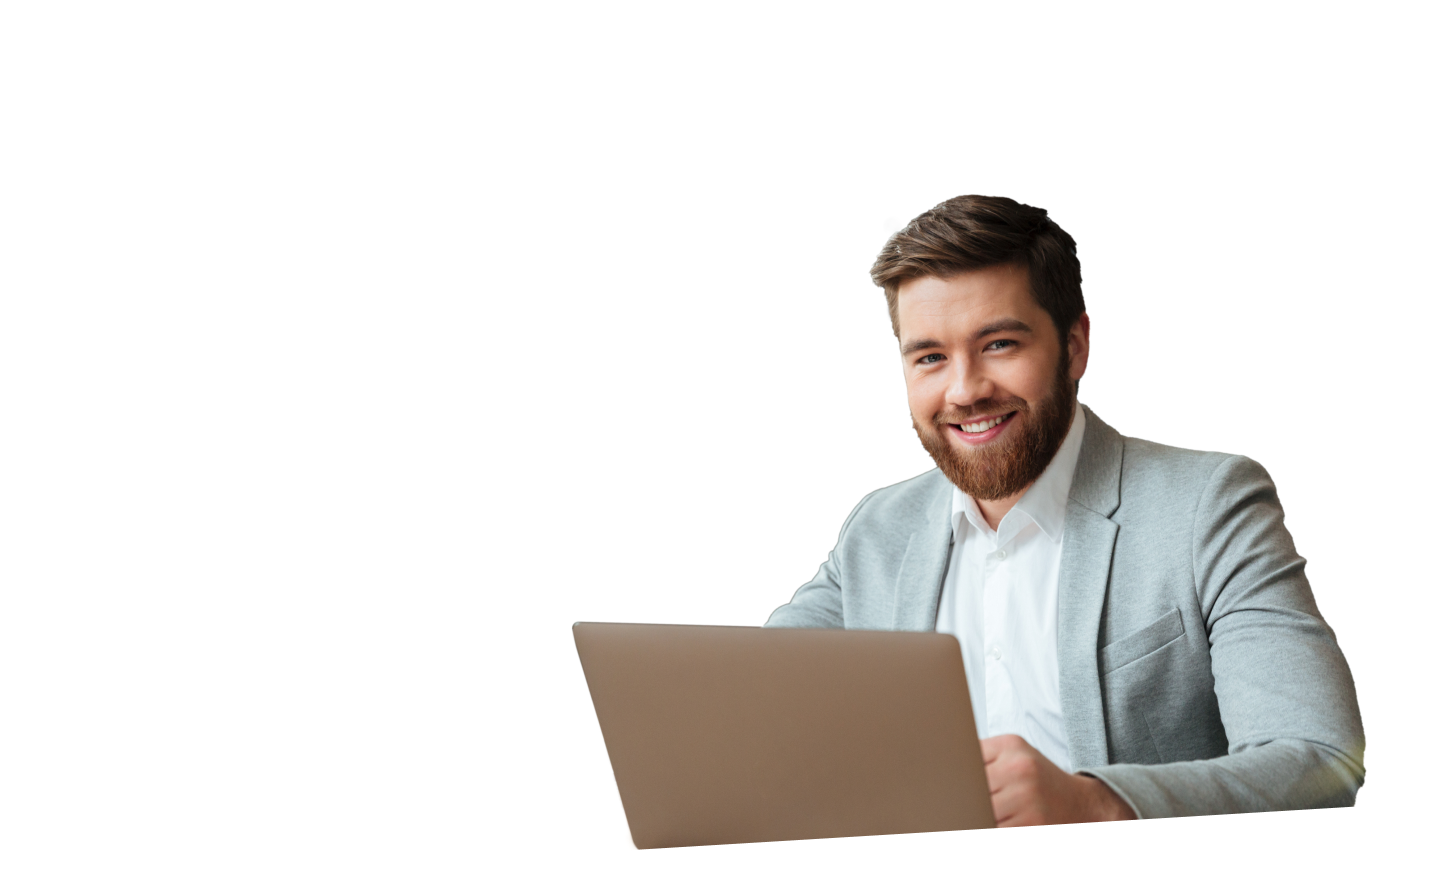
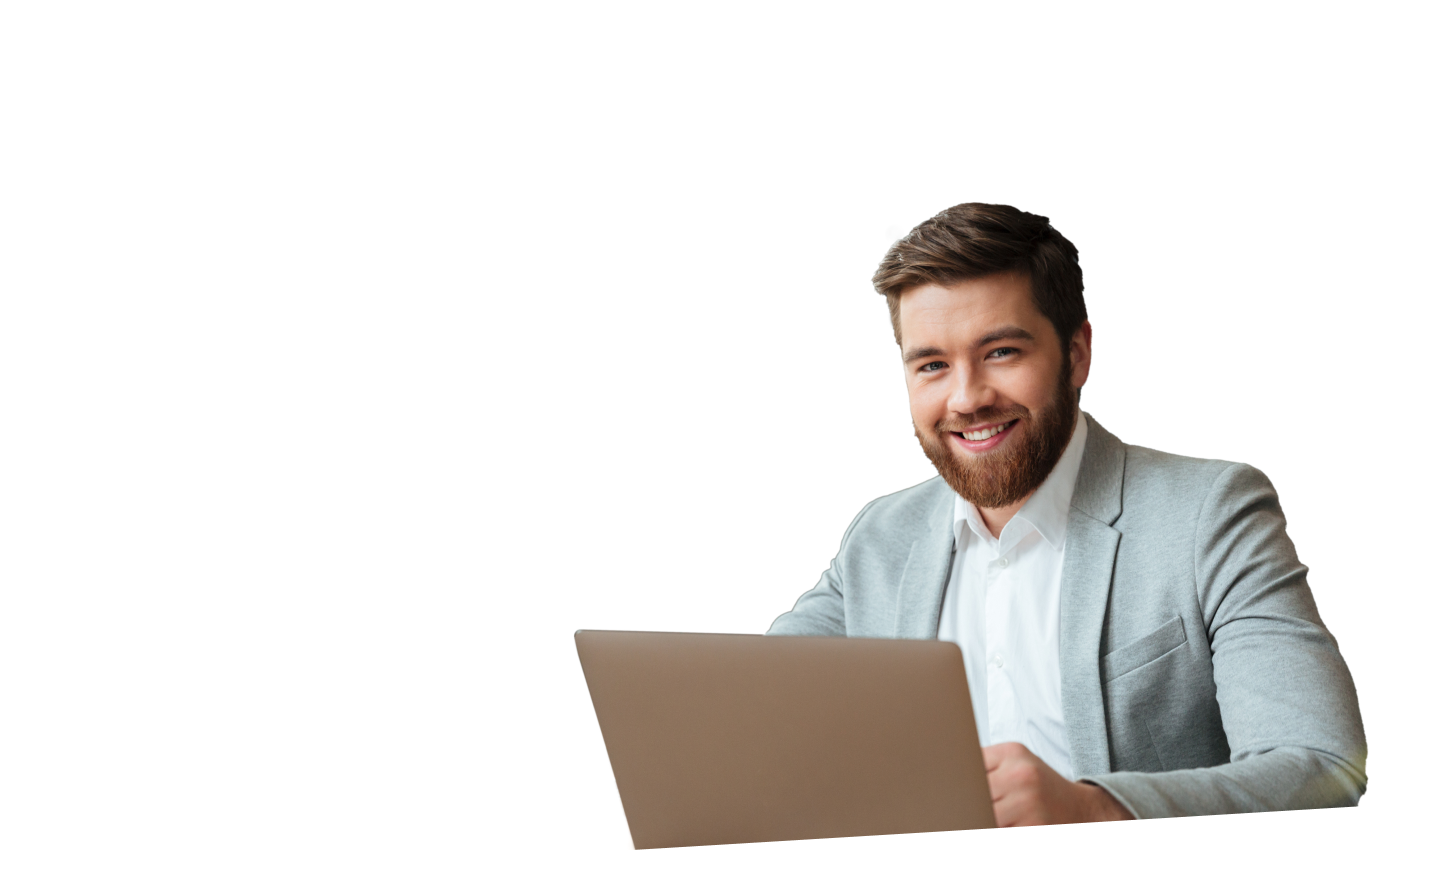
fix(images): best images and positions

Changed region(s): [[0.375, 0.2128, 0.9688, 0.9426]]

diff --git a/src/pages/licenciamento.tsx b/src/pages/licenciamento.tsx
@@ -74,6 +74,7 @@ const Licenciamento: React.FC = () => {
                                 // background={true}
                                 polygon={true}
                                 style={{ marginTop: '70px' }}
+                                collapse="tabletOn"
                             >
                                 <Column
                                     size={1}
@@ -85,6 +86,29 @@ const Licenciamento: React.FC = () => {
                                         changedMediaQueries="tabletOn"
                                         url="/assets/14-licensing/licensing-background.png"
                                         backgroundSize="cover"
+                                    >
+                                        <Title>
+                                            Licenciamento e <br />
+                                            Renovações
+                                        </Title>
+                                    </MainContainer>
+                                </Column>
+                            </Row>
+
+                            <Row
+                                background={true}
+                                polygon={true}
+                                style={{ marginTop: '70px' }}
+                                collapse="tabletOff"
+                            >
+                                <Column
+                                    size={1}
+                                    marginLeft={2}
+                                    marginRight={2}
+                                    maxWidth={1280}
+                                >
+                                    <MainContainer
+                                        changedMediaQueries="tabletOn"
                                     >
                                         <Title>
                                             Licenciamento e <br />

diff --git a/src/pages/vcsp.tsx b/src/pages/vcsp.tsx
@@ -85,6 +85,7 @@ const Suporte: React.FC = () => {
                         <section>
                             <Row
                                 // background={true}
+                                collapse="tabletOn"
                                 polygon={true}
                                 style={{ marginTop: '70px' }}
                             >
@@ -100,6 +101,28 @@ const Suporte: React.FC = () => {
                                         backgroundSize="cover"
                                     >
                                         <Title style={{ fontSize: '3.5rem'}}>
+                                            Licenciamento como <br />
+                                            Assinatura
+                                        </Title>
+                                    </MainContainer>
+                                </Column>
+                            </Row>
+
+                            <Row
+                                background={true}
+                                collapse="tabletOff"
+                                polygon={true}
+                                style={{ marginTop: '70px' }}
+                            >
+                                <Column
+                                    size={1}
+                                    marginLeft={2}
+                                    marginRight={2}
+                                >
+                                    <MainContainer
+                                        changedMediaQueries="tabletOn"
+                                    >
+                                        <Title style={{ fontSize: '3rem'}}>
                                             Licenciamento como <br />
                                             Assinatura
                                         </Title>

diff --git a/src/pages/consultoria.tsx b/src/pages/consultoria.tsx
@@ -77,6 +77,7 @@ const Consultoria: React.FC = () => {
                                 // background={true}
                                 polygon={true}
                                 style={{ marginTop: '70px' }}
+                                collapse="tabletOn"
                             >
                                 <Column
                                     size={1}
@@ -88,6 +89,26 @@ const Consultoria: React.FC = () => {
                                         changedMediaQueries="tabletOn"
                                         url="/assets/7-consultancy/consultancy-background.png"
                                         backgroundSize="cover"
+                                    >
+                                        <Title>Consultoria</Title>
+                                    </MainContainer>
+                                </Column>
+                            </Row>
+
+                            <Row
+                                background={true}
+                                polygon={true}
+                                style={{ marginTop: '70px' }}
+                                collapse="tabletOff"
+                            >
+                                <Column
+                                    size={1}
+                                    marginLeft={2}
+                                    marginRight={2}
+                                    maxWidth={1280}
+                                >
+                                    <MainContainer
+                                        changedMediaQueries="tabletOn"
                                     >
                                         <Title>Consultoria</Title>
                                     </MainContainer>

diff --git a/src/pages/index.tsx b/src/pages/index.tsx
@@ -286,7 +286,7 @@ const Home: React.FC = () => {
                                 >
                                     <EntireContainer>
                                         <h3>Soluções</h3>
-                                        <h1>
+                                        <h1 style={{ textAlign: 'center'}}>
                                             As melhores soluções do mercado
                                             <br />
                                             para sua empresa
@@ -354,7 +354,11 @@ const Home: React.FC = () => {
                                     boxShadow={true}
                                 >
                                     <img
-                                        style={{ padding: '2rem 0 0 2rem' }}
+                                        style={{
+                                            display: 'block',
+                                            marginLeft: 'auto',
+                                            marginRight: 'auto'
+                                        }}
                                         src="/assets/1-index/consulting-icon.png"
                                         alt="Consulting Icon"
                                     />

diff --git a/src/pages/parceiros.tsx b/src/pages/parceiros.tsx
@@ -99,7 +99,7 @@ const Parceiros: React.FC = () => {
                                     <MainContainer
                                         changedMediaQueries="tabletOn"
                                         url="/assets/5-partners/partners-image.png"
-                                        backgroundSize="110% auto"
+                                        backgroundSize="cover"
                                     >
                                         <Title>Parceiros</Title>
                                         <SubTitle changedMediaQueries="tabletOn">

diff --git a/src/pages/sobre.tsx b/src/pages/sobre.tsx
@@ -99,7 +99,7 @@ const Sobre: React.FC = () => {
                                     <MainContainer
                                         changedMediaQueries="tabletOn"
                                         url="/assets/2-about/aboutus.png"
-                                        backgroundSize="55%"
+                                        backgroundSize="cover"
                                     >
                                         <Title>Sobre Nós</Title>
                                         <SubTitle changedMediaQueries="tabletOn">

diff --git a/src/styles/Containers.ts b/src/styles/Containers.ts
@@ -15,9 +15,9 @@ export const MainContainer = styled.div<IMainContainer>`
     flex-direction: column;
     justify-content: center;
     padding: 2rem;
-    background: url(${props => props.url});
+    background: url(${props => props.url}) center center;
     background-repeat: no-repeat;
-    background-position: bottom right;
+    background-position: center right;
     background-size: ${props => props.backgroundSize};
 
     ${props =>

diff --git a/src/components/13-vbrPage/Software/styles.ts b/src/components/13-vbrPage/Software/styles.ts
@@ -10,6 +10,7 @@ export const Container = styled.div`
     background-repeat: no-repeat;
     background-size: auto auto;
     background-position: center;
+    margin-bottom: 35px;
 
     h1 {
         font-size: 2.22rem;
